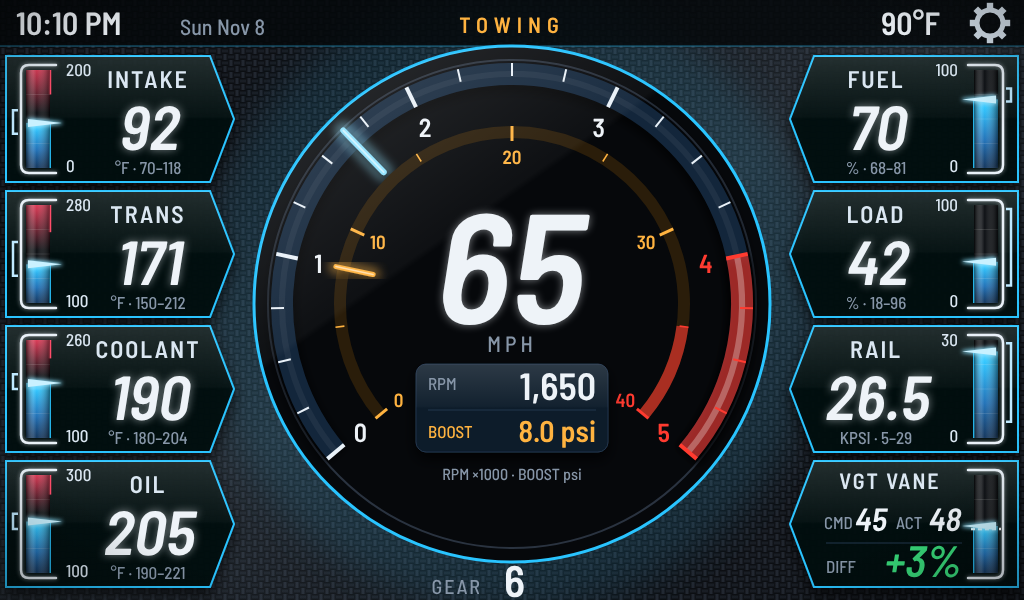
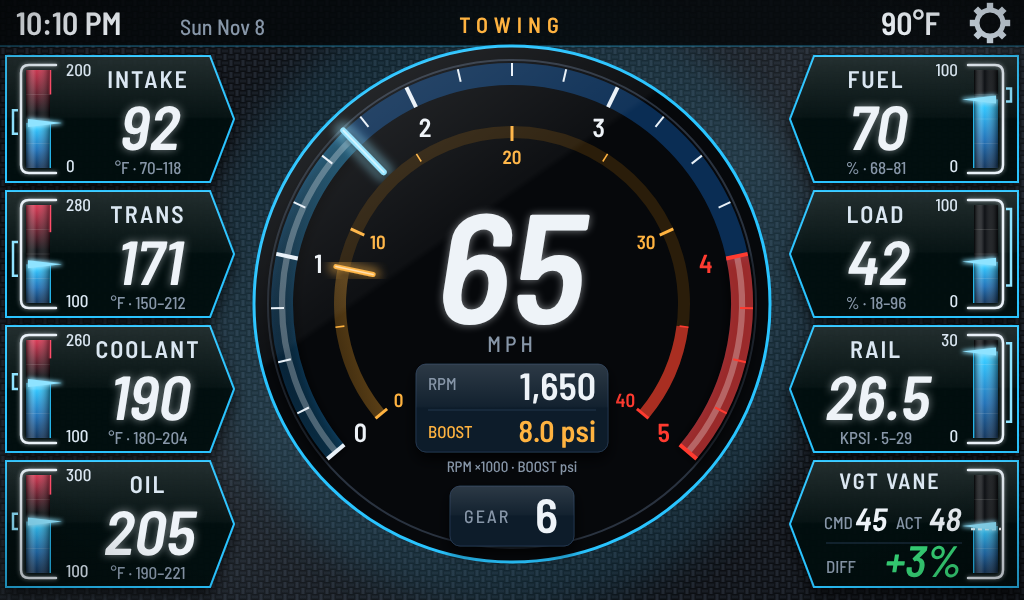
Mockups v2: P3 gear in the circle, faint RPM/boost fills, background and accent color options
Claude-Session: https://claude.ai/code/session_01NB1fkpFcGY28RY4JZ8NWPC

diff --git a/docs/mockups/v2.html b/docs/mockups/v2.html
@@ -51,6 +51,16 @@ s+=`<defs>
 <filter id="glow2" x="-50%" y="-50%" width="200%" height="200%"><feGaussianBlur stdDeviation="2"/></filter>
 <radialGradient id="hub" cx="40%" cy="35%" r="70%"><stop offset="0" stop-color="#9aa2ad"/><stop offset=".5" stop-color="#2b2f35"/><stop offset="1" stop-color="#08090a"/></radialGradient>
 <pattern id="carbon" width="12" height="12" patternUnits="userSpaceOnUse"><rect width="12" height="12" fill="#07090c"/><rect width="6" height="6" fill="url(#cw1)"/><rect x="6" y="6" width="6" height="6" fill="url(#cw1)"/><rect x="6" width="6" height="6" fill="url(#cw2)"/><rect y="6" width="6" height="6" fill="url(#cw2)"/></pattern>
+<pattern id="xmetal" width="34" height="18" patternUnits="userSpaceOnUse"><rect width="34" height="18" fill="#020304"/>
+  <path d="M0,9 L17,0 L34,9 L17,18 Z" fill="none" stroke="#3b424b" stroke-width="5"/><path d="M0,9 L17,0 L34,9" fill="none" stroke="#7a838e" stroke-width="1.4"/><path d="M0,9 L17,18 L34,9" fill="none" stroke="#14181d" stroke-width="1.4"/></pattern>
+<linearGradient id="lozG" x1="0" y1="0" x2="0" y2="1"><stop offset="0" stop-color="#9aa3ad"/><stop offset=".5" stop-color="#4a525c"/><stop offset="1" stop-color="#1c2126"/></linearGradient>
+<pattern id="dplate" width="44" height="44" patternUnits="userSpaceOnUse"><rect width="44" height="44" fill="#262a30"/>
+  <ellipse cx="11" cy="11" rx="10" ry="2.8" transform="rotate(-45 11 11)" fill="url(#lozG)"/><ellipse cx="33" cy="33" rx="10" ry="2.8" transform="rotate(-45 33 33)" fill="url(#lozG)"/>
+  <ellipse cx="33" cy="11" rx="10" ry="2.8" transform="rotate(45 33 11)" fill="url(#lozG)"/><ellipse cx="11" cy="33" rx="10" ry="2.8" transform="rotate(45 11 33)" fill="url(#lozG)"/></pattern>
+<linearGradient id="bal" x1="0" y1="0" x2="1" y2="1"><stop offset="0" stop-color="#2c3036"/><stop offset=".45" stop-color="#4a5058"/><stop offset=".55" stop-color="#3a3f46"/><stop offset="1" stop-color="#1f2226"/></linearGradient>
+<pattern id="honey" width="24" height="41.6" patternUnits="userSpaceOnUse"><rect width="24" height="41.6" fill="#07090b"/>
+  <path d="M12,0 L24,6.9 L24,20.8 L12,27.7 L0,20.8 L0,6.9 Z M12,27.7 L12,41.6 M0,20.8 L0,34.7 M24,20.8 L24,34.7" fill="none" stroke="#2a3038" stroke-width="2.4"/>
+  <path d="M0,6.9 L12,0 L24,6.9" fill="none" stroke="#4a525c" stroke-width="1"/></pattern>
 <pattern id="paper" width="20" height="20" patternUnits="userSpaceOnUse"><rect width="20" height="20" fill="#efe6cf"/><path d="M20,0 V20 M0,20 H20" stroke="#d9a49a" stroke-width=".8"/></pattern>
 </defs><rect width="1024" height="600" fill="url(#bg)"/><!--SPILL-->`;
 const GL=[],GLR=[];
@@ -277,8 +287,17 @@ pages.classic_trend=()=>{let o=`<rect width="1024" height="600" fill="#0d0d0f"/>
 
 
 // Premium Towing: aftermarket diesel-monitor look (carbon, segmented EGT arc, side data panels)
-pages.premium_towing=()=>{const CX=512,CY=304,RD=258;const CY2='#29c4ff';
-  let o=`<rect width="1024" height="600" fill="url(#carbon)"/><rect width="1024" height="600" fill="url(#sheen)"/><circle cx="512" cy="300" r="310" fill="#29c4ff" opacity=".10" filter="url(#bloomBig)"/>`;GL.push([CX,CY,RD]);
+pages.premium_towing=()=>{const CX=512,CY=304,RD=258;
+  const ACCS={cyan:['#29c4ff','#8fe3ff','#1b78c8','#0d3d73','#5fd4ff'],green:['#2fe37a','#9dffc4','#169a4e','#0a4424','#6af2a2'],
+    orange:['#ff8a1e','#ffc48a','#c4560a','#5a2604','#ffab5c'],red:['#ff3b4f','#ff9aa5','#b0182a','#4d0912','#ff6b7a'],
+    purple:['#a66bff','#d6bdff','#6b33c4','#2e1557','#c09bff'],white:['#e8eef5','#ffffff','#8c96a3','#353b43','#f4f8fb']};
+  const SECS={amber:'#ffb340',cyan:'#29c4ff',green:'#2fe37a',orange:'#ff8a1e',purple:'#c09bff',white:'#e8eef5'};
+  const ACC=ACCS[q.get('acc')||'cyan'],SEC=SECS[q.get('sec')||'amber'],CY2=ACC[0];
+  const BGS={carbon:'url(#carbon)',expanded:'url(#xmetal)',diamond:'url(#dplate)',brushed:'url(#bal)',honeycomb:'url(#honey)',black:'#040506'};
+  const bgk=q.get('bg')||'carbon';
+  let o=`<rect width="1024" height="600" fill="${BGS[bgk]}"/>`+(bgk=='brushed'?'<rect width="1024" height="600" fill="url(#brushed)"/>':'')+
+    (bgk=='black'?'':'<rect width="1024" height="600" fill="url(#sheen)"/>')+`<rect width="1024" height="600" fill="#000" opacity="${bgk=='carbon'||bgk=='black'?0:.35}"/>`+
+    `<circle cx="512" cy="300" r="310" fill="${ACC[0]}" opacity=".10" filter="url(#bloomBig)"/>`;GL.push([CX,CY,RD]);
   const sk=(x,y,sz,t,op={})=>`<g transform="translate(${x},${y}) skewX(-9)">`+T(0,0,sz,t,{f:'C6',...op})+`</g>`;
   // top bar: time, date, TOWING, outside temp, settings
   o+=`<rect x="0" y="0" width="1024" height="46" fill="#05080b" opacity=".85"/><line x1="0" y1="46" x2="1024" y2="46" stroke="${CY2}" stroke-opacity=".5"/>`;
@@ -286,37 +305,41 @@ pages.premium_towing=()=>{const CX=512,CY=304,RD=258;const CY2='#29c4ff';
   o+=T(940,35,32,'90°F',{a:'end',f:'C6'});
   {let g='';const x=990,y=23;for(let i=0;i<8;i++){const an=i*45,[a1,b1]=P(x,y,17,an-11),[a2,b2]=P(x,y,17,an+11);g+=`<line x1="${n1(a1)}" y1="${n1(b1)}" x2="${n1(a2)}" y2="${n1(b2)}" stroke="#dbe7f2" stroke-width="7"/>`}
    o+=g+`<circle cx="${x}" cy="${y}" r="13" fill="none" stroke="#dbe7f2" stroke-width="5"/>`}
+  o+=`<defs><linearGradient id="ofill" x1="0" y1="1" x2="1" y2="0"><stop offset="0" stop-color="${ACC[0]}" stop-opacity=".06"/><stop offset="1" stop-color="${ACC[0]}" stop-opacity=".32"/></linearGradient>
+    <linearGradient id="ifill" x1="0" y1="1" x2="1" y2="0"><stop offset="0" stop-color="${SEC}" stop-opacity=".06"/><stop offset="1" stop-color="${SEC}" stop-opacity=".36"/></linearGradient></defs>`;
   // center disc
   o+=`<circle cx="${CX}" cy="${CY}" r="${RD}" fill="#06080b" stroke="${CY2}" stroke-width="3"/><circle cx="${CX}" cy="${CY}" r="${RD-14}" fill="none" stroke="#2a3340" stroke-width="2"/>`;
   const A0=140,SW=260;
   // outer scale: RPM with a needle
   const RO=230,ar=v=>A0+SW*v/5;
-  o+=`<path d="${arc(CX,CY,RO,A0,A0+SW)}" stroke="#13263b" stroke-width="22" fill="none"/>`;
+  o+=`<path d="${arc(CX,CY,RO,A0,A0+SW)}" stroke="${ACC[3]}" stroke-opacity=".7" stroke-width="22" fill="none"/>`;
+  o+=`<path d="${arc(CX,CY,RO,A0,ar(V.rpm/1000))}" stroke="url(#ofill)" stroke-width="22" fill="none"/>`;
   o+=`<path d="${arc(CX,CY,RO,ar(4),ar(5))}" stroke="${C.red}" stroke-width="22" fill="none" opacity=".6"/>`;
   for(let v=0;v<=5;v+=.25){const maj=v%1==0,[x1,y1]=P(CX,CY,RO+11,ar(v)),[x2,y2]=P(CX,CY,RO-(maj?11:2),ar(v));o+=`<line x1="${n1(x1)}" y1="${n1(y1)}" x2="${n1(x2)}" y2="${n1(y2)}" stroke="${v>=4?C.red:'#e9f1f8'}" stroke-width="${maj?4:2}"/>`}
   for(let v=0;v<=5;v++){const[x,y]=P(CX,CY,RO-32,ar(v));o+=T(x,y,26,v,{db:'central',c:v>=4?C.red:C.text,f:'C6'})}
-  o+=needle(CX,CY,RO-46,RO+12,ar(V.rpm/1000),'#8fe3ff',6);
+  o+=needle(CX,CY,RO-46,RO+12,ar(V.rpm/1000),ACC[1],6);
   // inner scale: BOOST with its own needle
   const RI=172,ab=v=>A0+SW*v/40;
   o+=`<path d="${arc(CX,CY,RI,A0,A0+SW)}" stroke="#2a1d0a" stroke-width="12" fill="none"/>`;
+  o+=`<path d="${arc(CX,CY,RI,A0,ab(V.boost))}" stroke="url(#ifill)" stroke-width="12" fill="none"/>`;
   o+=`<path d="${arc(CX,CY,RI,ab(35),ab(40))}" stroke="${C.red}" stroke-width="12" fill="none" opacity=".6"/>`;
-  for(let v=0;v<=40;v+=5){const maj=v%10==0,[x1,y1]=P(CX,CY,RI+6,ab(v)),[x2,y2]=P(CX,CY,RI-(maj?9:3),ab(v));o+=`<line x1="${n1(x1)}" y1="${n1(y1)}" x2="${n1(x2)}" y2="${n1(y2)}" stroke="${v>=35?C.red:C.amber}" stroke-width="${maj?3:1.6}"/>`}
-  for(let v=0;v<=40;v+=10){const[x,y]=P(CX,CY,RI-24,ab(v));o+=T(x,y,19,v,{db:'central',c:v>=35?C.red:C.amber,f:'C6'})}
-  o+=needle(CX,CY,RI-30,RI+8,ab(V.boost),C.amber,5);
+  for(let v=0;v<=40;v+=5){const maj=v%10==0,[x1,y1]=P(CX,CY,RI+6,ab(v)),[x2,y2]=P(CX,CY,RI-(maj?9:3),ab(v));o+=`<line x1="${n1(x1)}" y1="${n1(y1)}" x2="${n1(x2)}" y2="${n1(y2)}" stroke="${v>=35?C.red:SEC}" stroke-width="${maj?3:1.6}"/>`}
+  for(let v=0;v<=40;v+=10){const[x,y]=P(CX,CY,RI-24,ab(v));o+=T(x,y,19,v,{db:'central',c:v>=35?C.red:SEC,f:'C6'})}
+  o+=needle(CX,CY,RI-30,RI+8,ab(V.boost),SEC,5);
   // speed, big; RPM digits with boost under them
   o+=sk(CX-6,CY+20,156,V.mph)+T(CX,CY+48,22,'MPH',{c:C.dim,ls:4,f:'C5'});
-  o+=`<rect x="${CX-96}" y="${CY+60}" width="192" height="88" rx="10" fill="#0f1b2a" stroke="#22364d"/>`+T(CX,CY+176,16,'RPM ×1000  ·  BOOST psi',{c:C.dim,f:'C5'});
+  o+=`<rect x="${CX-96}" y="${CY+60}" width="192" height="88" rx="10" fill="#0f1b2a" stroke="#22364d"/>`+T(CX,CY+168,15,'RPM ×1000  ·  BOOST psi',{c:C.dim,f:'C5'});
   o+=T(CX-84,CY+86,17,'RPM',{a:'start',c:C.dim,f:'C5'})+T(CX+84,CY+96,38,fmt(V.rpm),{a:'end',f:'C6'});
   o+=`<line x1="${CX-84}" y1="${CY+106}" x2="${CX+84}" y2="${CY+106}" stroke="#22364d"/>`;
-  o+=T(CX-84,CY+134,17,'BOOST',{a:'start',c:C.amber,f:'C5'})+T(CX+84,CY+138,30,V.boost.toFixed(1)+' psi',{a:'end',f:'C6',c:C.amber});
+  o+=T(CX-84,CY+134,17,'BOOST',{a:'start',c:SEC,f:'C5'})+T(CX+84,CY+138,30,V.boost.toFixed(1)+' psi',{a:'end',f:'C6',c:SEC});
   // gear below the circle
-  o+=T(CX-30,594,20,'GEAR',{a:'end',c:C.dim,f:'C5',ls:2})+T(CX-8,597,44,V.gear,{a:'start',f:'C6'});
+  o+=`<rect x="${CX-62}" y="${CY+182}" width="124" height="60" rx="10" fill="#0f1b2a" stroke="#22364d"/>`+T(CX-48,CY+219,18,'GEAR',{a:'start',c:C.dim,f:'C5',ls:2})+T(CX+46,CY+229,48,V.gear,{a:'end',f:'C6'});
   // Premium vertical bar: outline frame, red zone fading down, fill fading down from a bright top edge, pointer wedge,
   // dividers, tube shading, scale numbers, and this drive's min-max as a bracket outside the frame.
   let RB=0;
   function rbar(x,y,h,mn,mx,red,lo,hi,now,o2={}){const W=24,left=o2.left!==false,Y=v=>y+h-h*(Math.min(Math.max(v,mn),mx)-mn)/(mx-mn);
     const id='rb'+(RB++),hot=red!=null&&now>=red,col=hot?C.red:CY2,yn=Y(now);let g='';
-    g+=`<defs><linearGradient id="${id}f" x1="0" y1="0" x2="0" y2="1"><stop offset="0" stop-color="${hot?'#ff5a6e':'#5fd4ff'}"/><stop offset=".12" stop-color="${col}"/><stop offset=".6" stop-color="${hot?'#a8152a':'#1b78c8'}" stop-opacity=".9"/><stop offset="1" stop-color="${hot?'#4a0a14':'#0d3d73'}" stop-opacity=".75"/></linearGradient>
+    g+=`<defs><linearGradient id="${id}f" x1="0" y1="0" x2="0" y2="1"><stop offset="0" stop-color="${hot?'#ff5a6e':ACC[4]}"/><stop offset=".12" stop-color="${col}"/><stop offset=".6" stop-color="${hot?'#a8152a':ACC[2]}" stop-opacity=".9"/><stop offset="1" stop-color="${hot?'#4a0a14':ACC[3]}" stop-opacity=".75"/></linearGradient>
       <linearGradient id="${id}r" x1="0" y1="0" x2="0" y2="1"><stop offset="0" stop-color="#ff3b5c" stop-opacity=".85"/><stop offset="1" stop-color="#ff3b5c" stop-opacity="0"/></linearGradient>
       <linearGradient id="${id}t" x1="0" y1="0" x2="1" y2="0"><stop offset="0" stop-color="#000" stop-opacity=".55"/><stop offset=".32" stop-color="#fff" stop-opacity=".18"/><stop offset=".45" stop-color="#fff" stop-opacity=".04"/><stop offset="1" stop-color="#000" stop-opacity=".5"/></linearGradient></defs>`;
     g+=`<rect x="${x}" y="${y}" width="${W}" height="${h}" fill="#05080c"/>`;
@@ -329,7 +352,7 @@ pages.premium_towing=()=>{const CX=512,CY=304,RD=258;const CY2='#29c4ff';
     if(o2.cmd!=null){const yc=Y(o2.cmd);g+=`<line x1="${x-3}" y1="${n1(yc)}" x2="${x+W+3}" y2="${n1(yc)}" stroke="#fff" stroke-width="2.5" stroke-dasharray="4 3"/>`}
     // pointer wedge toward the scale
     const tip=left?x+W+12:x-12,base=left?x+2:x+W-2;
-    g+=`<polygon points="${base},${n1(yn-5)} ${tip},${n1(yn-1)} ${tip},${n1(yn+1)} ${base},${n1(yn+5)}" fill="${hot?'#ff6b6b':'#8fe3ff'}" filter="url(#glow2)"/><polygon points="${base},${n1(yn-4)} ${tip},${n1(yn)} ${base},${n1(yn+4)}" fill="${hot?'#ff8a8a':'#c9f1ff'}"/>`;
+    g+=`<polygon points="${base},${n1(yn-5)} ${tip},${n1(yn-1)} ${tip},${n1(yn+1)} ${base},${n1(yn+5)}" fill="${hot?'#ff6b6b':ACC[1]}" filter="url(#glow2)"/><polygon points="${base},${n1(yn-4)} ${tip},${n1(yn)} ${base},${n1(yn+4)}" fill="${hot?'#ff8a8a':ACC[1]}"/>`;
     // outline frame on the outer side, rounded, with a top cap and bottom foot
     const fx=left?x-5:x+W+5,cap=left?x+W+6:x-6;
     g+=`<path d="M${cap},${y-5} H${fx+(left?8:-8)} Q${fx},${y-5} ${fx},${y+3} V${y+h-3} Q${fx},${y+h+5} ${fx+(left?8:-8)},${y+h+5} H${cap}" fill="none" stroke="#e9f1f8" stroke-width="2.5" stroke-linecap="round" filter="url(#glow2)" opacity=".6"/>`+
@@ -338,7 +361,7 @@ pages.premium_towing=()=>{const CX=512,CY=304,RD=258;const CY2='#29c4ff';
     const lx=left?x+W+16:x-16,an=left?'start':'end',fm=v=>Number.isInteger(v)?v:v.toFixed(0);
     if(!o2.nolab)g+=T(lx,y+6,17,fm(mx),{a:an,f:'C5',c:'#dbe7f2'})+T(lx,y+h+4,17,fm(mn),{a:an,f:'C5',c:'#dbe7f2'});
     // this drive's min-max bracket outside the frame
-    if(lo!=null){const bxx=left?fx-8:fx+8,yh=Y(hi),yl=Y(lo);g+=`<path d="M${bxx+(left?5:-5)},${n1(yh)} H${bxx} V${n1(yl)} H${bxx+(left?5:-5)}" fill="none" stroke="#bfe9ff" stroke-width="2.5"/>`}
+    if(lo!=null){const bxx=left?fx-8:fx+8,yh=Y(hi),yl=Y(lo);g+=`<path d="M${bxx+(left?5:-5)},${n1(yh)} H${bxx} V${n1(yl)} H${bxx+(left?5:-5)}" fill="none" stroke="${ACC[1]}" stroke-width="2.5"/>`}
     return g}
   const L=[['INTAKE',V.iat,'°F',[0,200,150,70,118]],['TRANS',V.trans,'°F',[100,280,230,150,212]],['COOLANT',V.cool,'°F',[100,260,230,180,204]],['OIL',V.oil,'°F',[100,300,260,190,221]]];
   const Rr=[['FUEL',70,'%',[0,100,null,68,81]],['LOAD',42,'%',[0,100,null,18,96]],['RAIL',26.5,'KPSI',[0,30,null,5,29]],['VGT',null,'',null]];

diff --git a/docs/mockups/v2/KEY.md b/docs/mockups/v2/KEY.md
@@ -7,7 +7,7 @@ renders are in `numbered/`.
 |---|---|
 | **P1** Premium Daily | 1 tach that wraps into the top bar · 2 gear dial · 3 center card (boost/trans/MPG) · 4 speedo · 5 odometer · 6 coolant · 7 fuel % and range · 8 clock/date bar |
 | **P2** Premium Sport | 1 big center tach · 2 speed · 3 gear · 4 red-zone glow · 5 coolant bar · 6 trans bar · 7 boost bar · 8 oil bar |
-| **P3** Premium Towing (rev 3) | 1 speed (big, center) · 2 RPM needle on the outer scale · 3 boost needle on the inner amber scale · 4 RPM digits with boost under them · 5 gear (below the circle) · 6 left panels (intake/trans/coolant/oil) · 7 right panels (fuel/load/rail/VGT) · 8 premium vertical bars: outline frame, red zone fading down, fill fading down from a bright top edge, pointer at now, scale min/max, this drive's min–max bracket (also under the value) · 9 VGT vane: CMD, ACT and DIFF (amber at 5%, red at 10%) · 10 top bar: time, date, page, outside temp, settings |
+| **P3** Premium Towing (rev 3) | 1 speed (big, center) · 2 RPM needle on the outer scale with a faint fill · 3 boost needle on the inner scale with a faint fill · 4 RPM digits with boost under them · 5 gear (bottom of the circle) · 6 left panels (intake/trans/coolant/oil) · 7 right panels (fuel/load/rail/VGT) · 8 premium vertical bars: outline frame, red zone fading down, fill fading down from a bright top edge, pointer at now, scale min/max, this drive's min–max bracket (also under the value) · 9 VGT vane: CMD, ACT and DIFF (amber at 5%, red at 10%) · 10 top bar: time, date, page, outside temp, settings |
 | **P4** Premium Economy | 1 open-arc tach · 2 speed · 3 gear · 4 fuel bar · 5 fuel % and range · 6 trip/tank boxes · 7 MPG bar with tank-avg marker · 8 MPG now/trip/last 10 · 9 telltales |
 | **P5** Premium Trend | 1 channel list · 2 live values · 3 chart · 4 tap cursor · 5 min/avg/max · 6 time window buttons |
 | **C1** Classic Daily | 1 digital speed/gear window · 2 sweep speedo · 3 odometer · 4 round tach · 5 temp/trans window · 6 boost/fuel window · 7 clock |
@@ -16,3 +16,13 @@ renders are in `numbered/`.
 | **C4** Classic Trend | 1 pen readouts · 2 pen selector · 3 strip chart · 4 time window buttons · 5 peaks |
 
 Every reading on P3 can be swapped: press and hold it to open the picker (`premium_towing_picker.png`).
+
+## Options (P3 for now)
+
+Render with `&bg=` and `&acc=`/`&sec=` (sheets in `options/`).
+
+- Backgrounds: B1 carbon, B2 expanded metal, B3 diamond plate, B4 brushed aluminum, B5 honeycomb, B6 plain black (night).
+- Colors: two picks, a main accent (frames, RPM needle, bar fills, glow) and a second accent (boost needle and scale).
+  Presets: cyan, green, orange, purple, white for main; amber, cyan, green, orange, purple, white for second.
+  Red, amber and green keep their meaning (danger, warning, OK) and don't change. Red as the main accent (K4) is shown
+  but not recommended: everything looks like an alarm.
